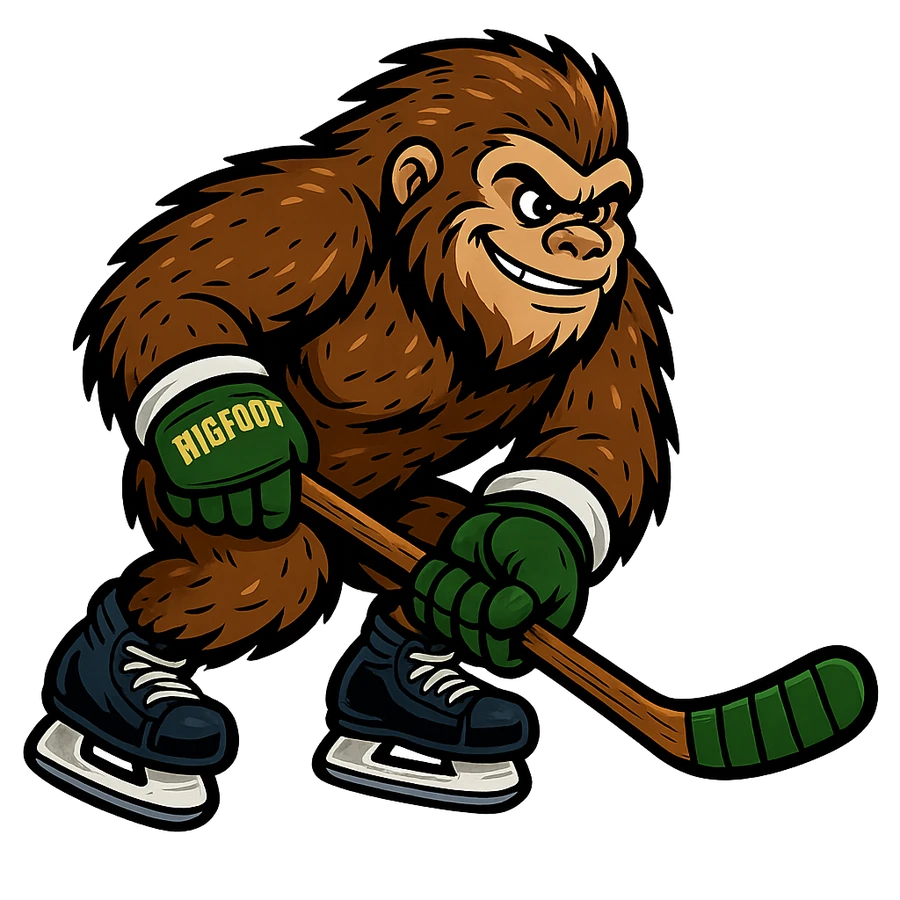
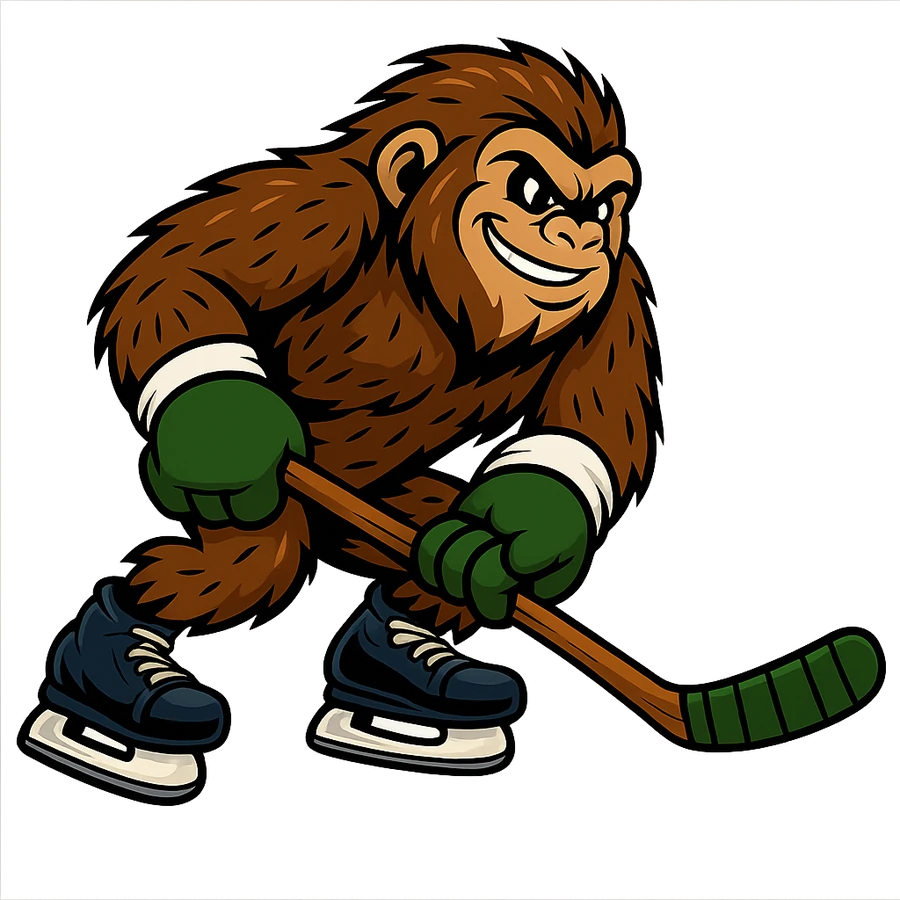
feat(login): storyboard-accurate splash polish
- Speech bubble is the exact storyboard oval balloon (generated + isolated);
  desktop places it up-right clear of Sass's head, mobile in the middle with
  Sass starting half off the left edge, tail toward his mouth.
- Sass skates with a 3-frame leg cycle (spread -> feet together -> spread);
  welcome pose regenerated with plain green gloves (no text) so it no longer
  flickers against the skating frames.
- Frozen-pond ice base; cracks only on impact; ice clears for the modal.
- Give the welcome beat ~5s longer so the speech bubble is readable.
- Sign In / Join Waitlist match the site's flat green CTA (no shadow); drop
  "the" from the waitlist button label.

Changed region(s): [[0.0, 0.0311, 0.9956, 0.9333], [0.0, 0.9956, 1.0, 1.0]]

diff --git a/index.html b/index.html
@@ -565,13 +565,13 @@ body.login-locked{overflow:hidden}
 @keyframes spFrM{0%,24.9%{opacity:0}25%,49.9%{opacity:1}50%,74.9%{opacity:0}75%,100%{opacity:1}}
 @keyframes spFrB{0%,49.9%{opacity:0}50%,74.9%{opacity:1}75%,100%{opacity:0}}
 /* speech bubble: the exact storyboard oval balloon (generated), top-right, tail down-left toward Sass */
-.sp-bubble-img{position:absolute;right:auto;left:14vw;top:15%;width:min(38vw,400px);height:auto;opacity:0;transform:translateY(-8px) scale(.95);transition:opacity .35s ease,transform .35s ease;z-index:3;-webkit-user-drag:none;filter:drop-shadow(0 10px 22px rgba(0,0,0,.28))}
+.sp-bubble-img{position:absolute;right:auto;left:23vw;top:11%;width:min(36vw,380px);height:auto;opacity:0;transform:translateY(-8px) scale(.95);transition:opacity .35s ease,transform .35s ease;z-index:3;-webkit-user-drag:none;filter:drop-shadow(0 10px 22px rgba(0,0,0,.28))}
 #loginStage[data-step='welcome'] .sp-bubble-img{opacity:1;transform:translateY(0) scale(1)}
 /* mobile: Sass sits half off the left edge so the bubble tail meets his mouth */
 @media (max-width:640px){
-  .sp-sass-welcome{left:-18vw;bottom:3%;height:clamp(300px,60vh,540px)}
+  .sp-sass-welcome{left:-52vw;bottom:3%;height:clamp(300px,60vh,540px)}
   .sp-skater{height:clamp(300px,60vh,540px);width:clamp(300px,60vh,540px);bottom:3%}
-  .sp-bubble-img{right:auto;left:45vw;top:29%;width:min(58vw,290px)}
+  .sp-bubble-img{right:auto;left:34vw;top:26%;width:min(58vw,290px)}
 }
 /* speed streaks during the run */
 .sp-speed{position:absolute;inset:0;opacity:0;transition:opacity .15s ease}
@@ -611,10 +611,12 @@ body.login-locked{overflow:hidden}
 .sp-skip{position:absolute;top:max(16px,env(safe-area-inset-top,0px));right:max(18px,env(safe-area-inset-right,0px));display:none;align-items:center;gap:14px;z-index:5}
 #loginOverlay.is-playing .sp-skip{display:flex}
 /* match the thwaphockey.com CTA style: brand green, Archivo Black, rounded 14px */
-.sp-skipbtn{min-height:46px;padding:0 22px;border-radius:14px;border:0;background:var(--green);color:var(--onaccent);font-family:'Archivo Black',system-ui,sans-serif;font-weight:600;font-size:15px;letter-spacing:.005em;cursor:pointer;box-shadow:0 6px 18px var(--shadow);-webkit-tap-highlight-color:transparent}
-.sp-skipbtn-alt{background:var(--panel);color:var(--green2);border:2px solid var(--green)}
+/* match the site's CTA (.login-go / .primary): flat brand green, Archivo Black, radius 14px, no shadow */
+.sp-skipbtn{display:inline-flex;align-items:center;justify-content:center;min-height:46px;padding:0 20px;border-radius:14px;border:0;background:var(--green);color:var(--onaccent);font-family:'Archivo Black',system-ui,sans-serif;font-weight:600;font-size:15px;cursor:pointer;transition:transform .08s ease,filter .12s ease;-webkit-tap-highlight-color:transparent}
+.sp-skipbtn:hover{filter:brightness(1.04)}
+.sp-skipbtn-alt{background:var(--panel);color:var(--green2);border:1px solid var(--line)}
 .sp-skipbtn:active{transform:scale(.96)}
-@media (max-width:640px){.sp-skip{gap:10px}.sp-skipbtn{padding:0 16px;font-size:13.5px;min-height:44px}}
+@media (max-width:640px){.sp-skip{gap:10px}.sp-skipbtn{padding:0 16px;font-size:14px;min-height:44px}}
 /* modal entrance when it appears */
 .login-modal{animation:spModalIn .3s ease}
 @keyframes spModalIn{from{opacity:0;transform:translateY(10px) scale(.98)}to{opacity:1;transform:none}}
@@ -642,7 +644,7 @@ body.login-locked{overflow:hidden}
   </div>
   <div class='sp-skip' id='spSkip'>
     <button type='button' class='sp-skipbtn' id='splashSignin'>Sign In</button>
-    <button type='button' class='sp-skipbtn sp-skipbtn-alt' id='splashWait'>Join the waitlist</button>
+    <button type='button' class='sp-skipbtn sp-skipbtn-alt' id='splashWait'>Join Waitlist</button>
   </div>
   <form class='login-modal' id='loginForm' role='dialog' aria-modal='true' aria-labelledby='loginTitle' novalidate>
     <h2 class='login-h' id='loginTitle'>Welcome back!</h2>
@@ -2961,12 +2963,12 @@ function startSplash(){
   if(form) form.hidden=true; if(waitForm) waitForm.hidden=true;
   setStep('welcome');
   var b=document.getElementById('splashSignin'); if(b) setTimeout(function(){ b.focus(); },80);
-  splashTimers.push(setTimeout(function(){ setStep('run'); },1600));
+  splashTimers.push(setTimeout(function(){ setStep('run'); },6600));
   splashTimers.push(setTimeout(function(){
     setStep('impact');
     if(stageEl){ stageEl.classList.add('shake'); setTimeout(function(){ stageEl.classList.remove('shake'); },420); }
-  },3100));
-  splashTimers.push(setTimeout(function(){ showSignin(); },3850));
+  },8100));
+  splashTimers.push(setTimeout(function(){ showSignin(); },8850));
 }
 function maybeSplash(){
   if(reduceMotion()){ showSignin(); return; }
